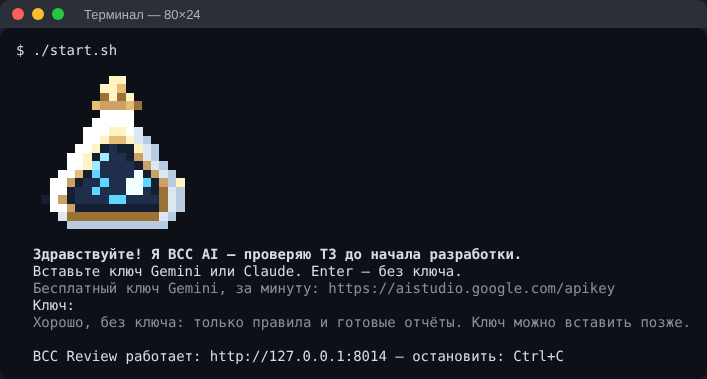
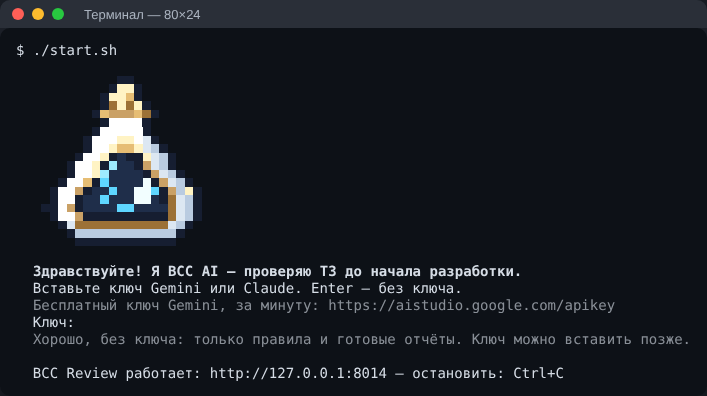
v2 №40: терминал — контур снаружи силуэта AIshka (виден и в светлом терминале), MASCOT = "aishka" для №42
Рисунок 42×38 px → 19 строк полублоков (в тесном окне 10). №42 видит MASCOT и не подменяет render.
Снимки терминала заново, плюс светлая тема (40-terminal-light.png).

Claude-Session: https://claude.ai/code/session_016sS8s8kC848mBEduxwSAGK

diff --git a/src/bcc_review/v2/web/tty_agent.py b/src/bcc_review/v2/web/tty_agent.py
@@ -31,8 +31,8 @@ from pathlib import Path
 from typing import Any, Callable, Mapping, TextIO
 
 # ─────────────────────────────── кадры AIshka ───────────────────────────────
-# Сетка 96×96 из agent.js без пустых полей (x 9…88, y 10…81): 80×72 px. На экран — вдвое меньше: 40×36 px,
-# 18 строк полублоков «▀»; в тесном окне — ещё вдвое.
+# Сетка 96×96 из agent.js без пустых полей (x 9…88, y 10…81): 80×72 px. На экран — вдвое меньше и с контуром:
+# 42×38 px, 19 строк полублоков «▀»; в тесном окне — ещё вдвое.
 _W, _H = 80, 72
 _PALETTE = (
     "#161E31", "#1F2E4A", "#21A049", "#9C7136", "#34D36A", "#CAA166", "#E6BD74", "#F58DA8",
@@ -202,6 +202,7 @@ _FRAMES_Z = {
     ),
 }
 
+MASCOT = "aishka"                        # №42: свой AIshka уже здесь, подменять render не нужно
 _cache: dict[str, list[list[int]]] = {}
 _sleep = time.sleep                      # тесты подменяют, чтобы не ждать анимацию
 _OUTLINE = _PALETTE.index("#161E31") + 1
@@ -234,6 +235,19 @@ def compact(rows: list[list[int]]) -> list[list[int]]:
         out.append(line)
     if len(out) % 2:
         out.append([0] * len(out[0]))
+    return out
+
+
+def outline(rows: list[list[int]]) -> list[list[int]]:
+    """Поле в 1 px и контур снаружи силуэта, как у оригинала: без него белый корпус тонет в светлом терминале."""
+    w = len(rows[0]) + 2
+    pad = [[0] * w] + [[0] + r + [0] for r in rows] + [[0] * w]
+    out = [r[:] for r in pad]
+    for y, r in enumerate(pad):
+        for x, c in enumerate(r):
+            if not c and any(0 <= y + dy < len(pad) and 0 <= x + dx < w and pad[y + dy][x + dx]
+                             for dy, dx in ((1, 0), (-1, 0), (0, 1), (0, -1))):
+                out[y][x] = _OUTLINE
     return out
 
 
@@ -327,9 +341,10 @@ def render(name: str, mode: str, *, small: bool = False, indent: int = 2) -> lis
     """Строки терминала с AIshka: полублок «▀» — верхний пиксель цветом текста, нижний — фоном."""
     if mode == "ascii":
         return ascii_drone(name)
-    rows = compact(frame(name))          # вдвое: 40×36 px → 18 строк
+    rows = compact(frame(name))          # вдвое: 40×36 px
     if small:
         rows = compact(rows)                # тесное окно: ещё вдвое
+    rows = outline(rows)                    # + контур: 42×38 px → 19 строк полублоков (в тесном окне 10)
     lines = []
     pad = " " * indent
     for y in range(0, len(rows), 2):

diff --git a/tests/v2/test_40_bcc_ai.py b/tests/v2/test_40_bcc_ai.py
@@ -366,9 +366,10 @@ def test_greet_ascii_and_256(tty):
     assert r == "offline" and "\x1b" not in text and "/ oo \\" in text
     lines = T.render("idle", "256")
     assert any("38;5;" in ln for ln in lines) and not any("38;2;" in ln for ln in lines)
-    # AIshka без пустых полей, вдвое меньше: 18 строк полублоков (в тесном окне — 9), не шире 40 колонок
-    assert len(T.render("idle", "truecolor")) == 18 and len(T.render("idle", "truecolor", small=True)) == 9
-    assert max(len(T._ANSI.sub("", ln)) for ln in T.render("analyzing0", "truecolor")) <= 2 + 40
+    # AIshka без пустых полей, вдвое меньше и с контуром: 19 строк полублоков (в тесном окне — 10), не шире 42 колонок
+    assert len(T.render("idle", "truecolor")) == 19 and len(T.render("idle", "truecolor", small=True)) == 10
+    assert max(len(T._ANSI.sub("", ln)) for ln in T.render("analyzing0", "truecolor")) <= 2 + 42
+    assert T.MASCOT == "aishka"                               # №42 не подменяет render: AIshka уже свой
 
 
 def test_color_mode_detection():
